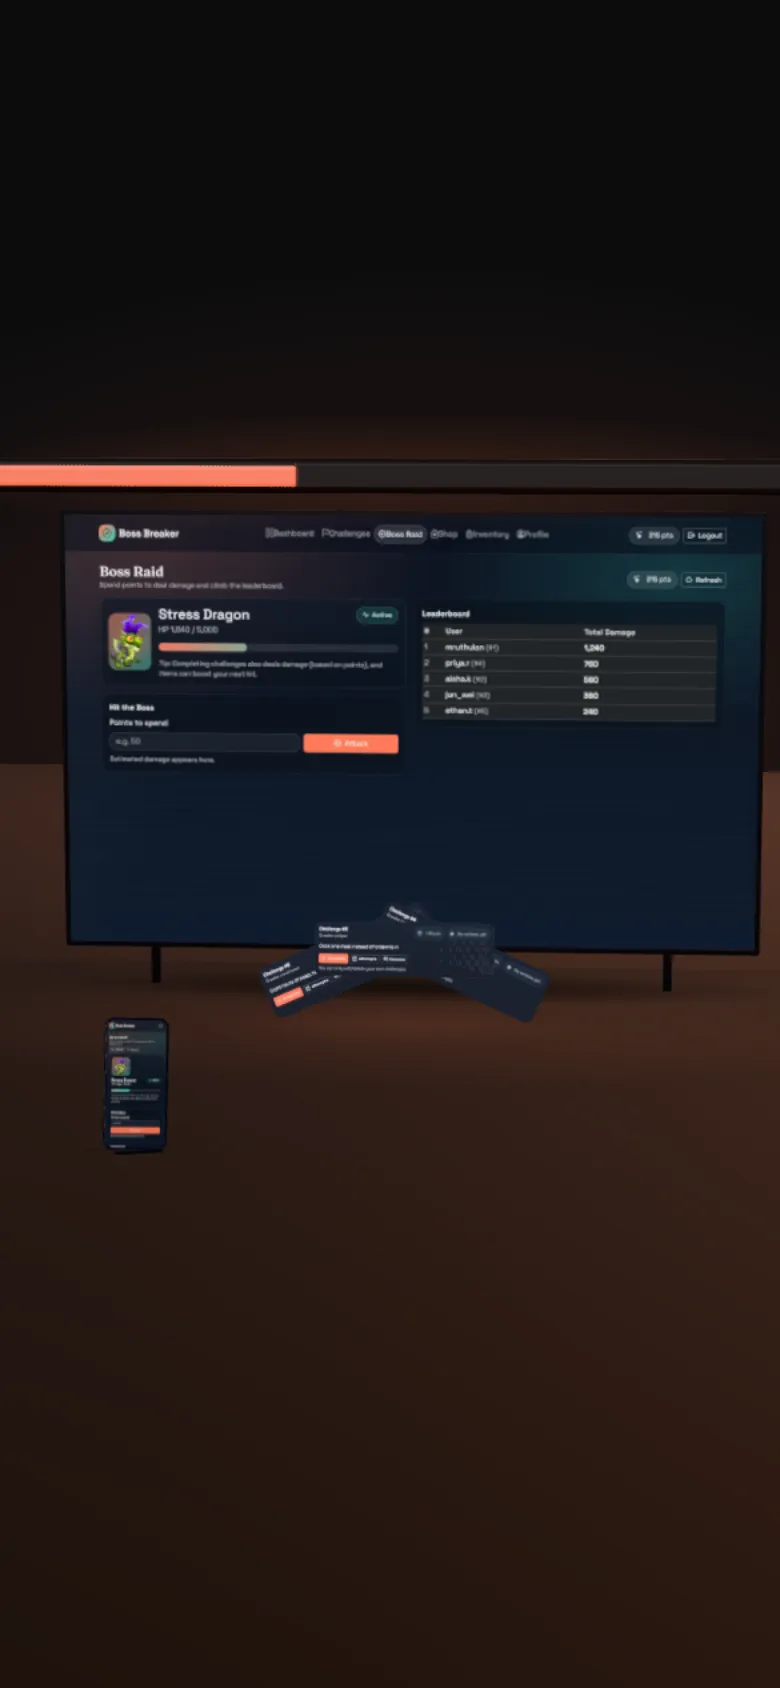
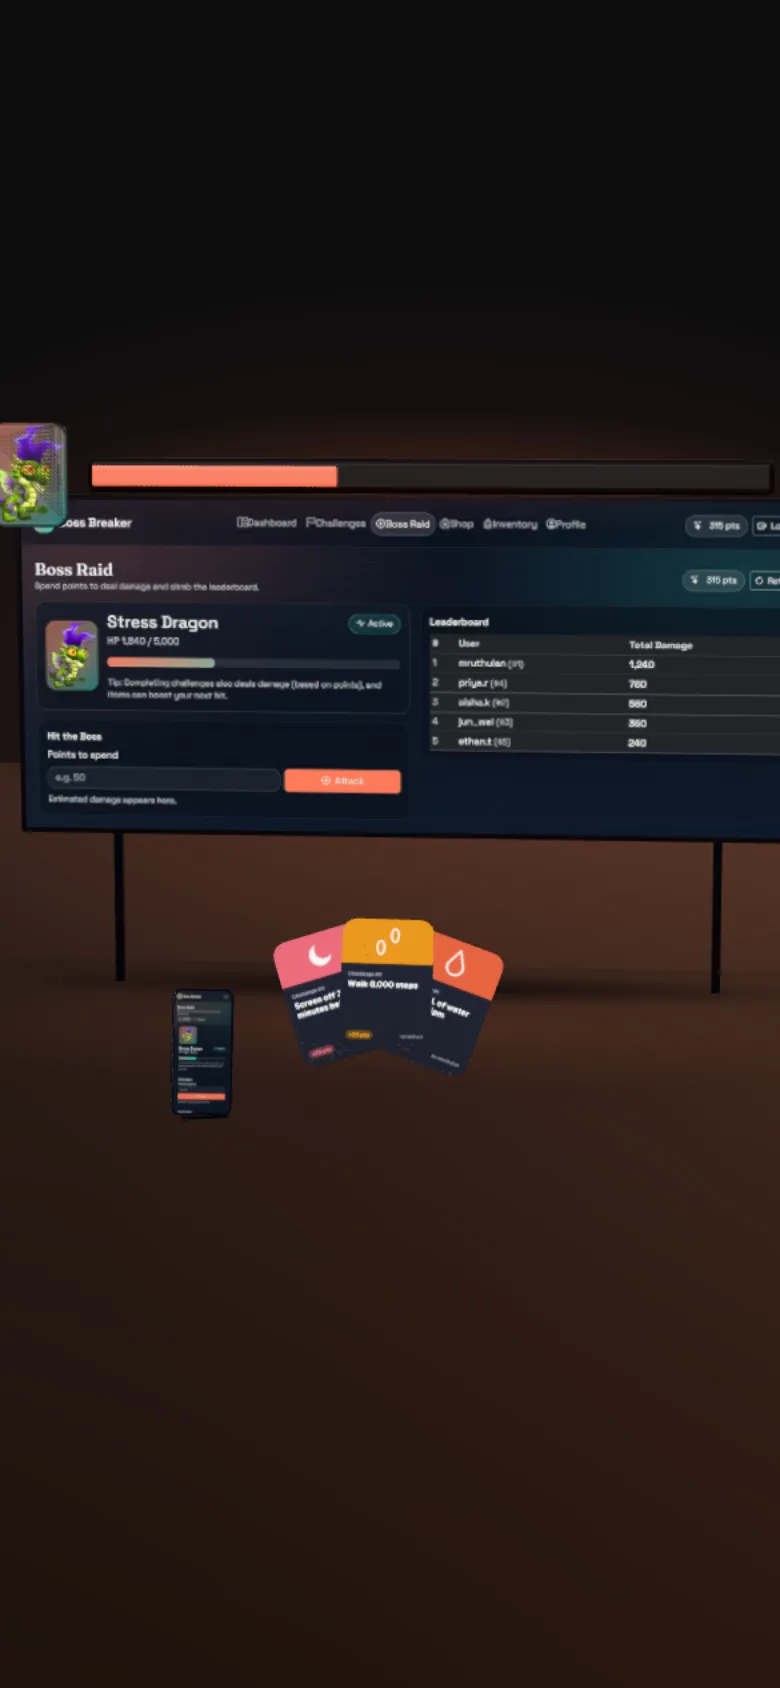
Stills for every changed chapter, a phone check, the README for v3; textures sized so they reach the GPU without stalling a frame

Changed region(s): [[0.0, 0.2464, 1.0, 0.7085]]

diff --git a/design/build_3d_assets.py b/design/build_3d_assets.py
@@ -70,7 +70,8 @@ FONT_FILES = {
 # Awards: each event's real photos, printed on the table (the keys of data/media.json)
 AWARD_PHOTOS = ['win-signalbridge-team', 'win-signalbridge-award', 'win-meant-handover', 'win-meant-stage',
                 'win-meant-team', 'win-knowcad-champion', 'win-knowcad-team']
-AWARD_WIDTH = 1400                    # the photos at their source's full width (at most this), lightly sharpened
+AWARD_WIDTH = 900                     # the photos at most this wide (1.5x their largest size on screen at 1920 px,
+                                      # and a GPU upload short enough not to stall a frame), lightly sharpened
 # Boss Breaker's six challenges, #1 to #6, as d-challenges.png shows them: the words, points, creator; each card
 # gets its own icon and an accent from the game's orange family
 CHALLENGES = [
@@ -440,12 +441,13 @@ def main():
     save(fit_crop(sb / 'm-youth-preview.png', PHONE_CROP, (768, 1662)), 'sb-phone-preview')
 
     bx = RAW / 'bx'
-    save(sharpen(fit_crop(bx / 'd-boss.png', DISPLAY_CROP, (2048, 2048))), 'bx-display')
-    save(fit(bx / 'm-boss.png', (1024, 2216)), 'bx-phone')
+    # sized to 1.5x their largest size on screen, so each goes to the GPU without stalling a frame
+    save(sharpen(fit_crop(bx / 'd-boss.png', DISPLAY_CROP, (1600, 1600))), 'bx-display')
+    save(fit(bx / 'm-boss.png', (768, 1662)), 'bx-phone')
     save(sized(crop(bx / 'd-boss.png', DRAGON_BOX, 22), 320), 'bx-dragon')   # already its source size (184 x 244)
     save(crop(bx / 'd-boss.png', LEADER_BOX, 26), 'bx-leaderboard')          # its source size, 1271 x 518
     for i, (text, pts, by, kind, accent) in enumerate(CHALLENGES, 1):
-        save(challenge_card(i, text, pts, by, kind, accent), f'bx-card-{i}')
+        save(challenge_card(i, text, pts, by, kind, accent).resize((384, 540), Image.LANCZOS), f'bx-card-{i}')   # drawn at 512
 
     media = ROOT / 'assets' / 'media'
     # the tablet and the partner's display are about 400 px wide on screen at most: 1024 px is plenty, and
@@ -457,10 +459,10 @@ def main():
     for i, text in enumerate(REPLIES, 1):
         save(reply_card(text), f'mt-reply-{i}')
     save(fit_crop(media / 'meant-shot-3.webp', WORD_GRID, (1448, 446)), 'mt-words')
-    save(sharpen(fit(media / 'press' / 'tamil-murasu-2026-09-28-p8.webp', (1400, 1117))), 'mt-paper', quality=80)
+    save(sharpen(fit(media / 'press' / 'tamil-murasu-2026-09-28-p8.webp', (1024, 817))), 'mt-paper', quality=82)   # from the full scan
 
     for state in range(4):
-        save(kc_console(state), f'kc-console-{state}')
+        save(kc_console(state).resize((1024, 640), Image.LANCZOS), f'kc-console-{state}')   # drawn at 1600, kept at 1024
     save(kc_spines(), 'kc-spines')
     for i in range(3):
         save(kc_source(i), f'kc-source-{i + 1}')

diff --git a/tests/test_assets.py b/tests/test_assets.py
@@ -74,7 +74,7 @@ def test_no_signalbridge_wall_screen_is_light():
             assert ImageStat.Stat(im.convert('L')).mean[0] < 70, p.name
 
 
-MIN_WIDTH = {'bx-display': 2048, 'bx-leaderboard': 1271, 'bx-phone': 1024}
+MIN_WIDTH = {'bx-display': 1600, 'bx-leaderboard': 1271, 'bx-phone': 768}
 
 
 @pytest.mark.parametrize('name,width', MIN_WIDTH.items())
@@ -158,7 +158,7 @@ def test_the_six_challenge_cards_are_drawn_and_each_is_different():
         'Ten minutes of stretching after class', 'Cook one meal instead of ordering in',
         'Eight hours of sleep, two nights running']
     ims = [Image.open(ROOT / 'assets' / '3d' / f'bx-card-{i}.webp').convert('RGB') for i in range(1, 7)]
-    assert all(im.size == (512, 720) for im in ims)
+    assert all(im.size == (384, 540) for im in ims)
     for i in range(6):
         for j in range(i + 1, 6):
             diff = ImageStat.Stat(ImageChops.difference(ims[i], ims[j])).mean
@@ -208,7 +208,7 @@ def test_meant_reply_cards_are_drawn_white_cards_and_the_paper_is_sharper():
             assert min(im.getpixel((8, 8))[:3]) >= 250, 'the card is white to its edge (the 3D card rounds it)'
             assert ImageStat.Stat(im.convert('L')).mean[0] > 200
     with Image.open(ROOT / 'assets' / '3d' / 'mt-paper.webp') as im:
-        assert im.width >= 1400, im.size
+        assert im.width >= 1024, im.size
 
 
 def test_the_meant_scene_and_the_builder_agree_on_the_reply_tiles():
@@ -224,7 +224,7 @@ KC = ['kc-console-0', 'kc-console-1', 'kc-console-2', 'kc-console-3', 'kc-spines
 def test_knowcad_textures_are_drawn_and_the_champion_photo_is_gone():
     from PIL import Image, ImageChops, ImageStat
     sizes = {n: Image.open(ROOT / 'assets' / '3d' / f'{n}.webp').size for n in KC}
-    assert all(sizes[f'kc-console-{i}'] == (1600, 1000) for i in range(4))
+    assert all(sizes[f'kc-console-{i}'] == (1024, 640) for i in range(4))
     assert sizes['kc-spines'] == (800, 800)
     assert all(sizes[f'kc-source-{i}'] == (600, 780) for i in range(1, 4))
     assert not (ROOT / 'assets' / '3d' / 'kc-champion.webp').exists()

diff --git a/README.md b/README.md
@@ -12,11 +12,11 @@ The homepage reads like a product page, and every project is a full-screen 3D sc
 - **Hero**: the name as a 3D split-flap board (MRUTHULAN in gold, SENTHIL NATHAN in white; three rows on phones), then LinkedIn, GitHub and Résumé. The board leans toward the mouse with a warm glint under the pointer, a flap flickers under the mouse and lands back, a tap ripples the whole name, and as you scroll on it tilts back and rises away while the camera flies past it into SignalBridge. The page paints a still of the board rendered from the same scene (`assets/3d/stills/`), and the live board takes over from it unseen.
 - **Chapters** (`#work`, `#work-<id>`) are five full-screen scenes, one after another along one camera path, each lit in its project's colour; moving from one to the next is a camera flight. Each takes about 1.6 screens of scrolling: the name arrives (in the project's own typeface, `assets/fonts/name-*.woff2`, loaded as the chapter comes near), then the one line, then the result and Case study, which stay until the chapter leaves. The page never moves by itself. A rail on the side marks the chapter you are in (not on phones).
   - **SignalBridge**, a control room at night: the youth's phone close up, then rows of SignalBridge's real screens on monitor posts; the youth's real message lifts off the phone and the camera follows it along a line of light, through the real consent card, onto the laptop's handoff brief. Tap the consent card to turn it over.
-  - **Boss Breaker**, the raid: the real Boss Raid screen large under the Stress Dragon's health bar, the phone, a hand of the real challenge cards and the leaderboard as bars. The scroll drains the boss to the 1,840 HP in the captures; a click anywhere (or Attack) throws a card for 350, until "Stress Dragon defeated". Scrolling back above the chapter resets the fight.
-  - **Better Call Bhai**, the shop: two glass barber poles in the shop's yellow, black and white (grab one and spin it), the phone stepping through the real booking to Booking Confirmed, and the day's real time slots lifting onto a wall behind it.
-  - **MEANT**, a café table: the tablet with its four suggested replies and the partner's display. The reply tiles rise off the tablet; pick one (click, tap or keyboard) and it flies across to the partner's display, which shows it. Word tiles from the board hang around the table; the Tamil Murasu page lies on it and opens the article. (The partner display could not be captured showing each reply, so each reply is written onto the real "Give me a moment" capture in the display's own typeface, colour and size.)
-  - **KnowCad**, the archive: hundreds of drawing sheets (generic drafting marks only) fill the screen; the scroll types the question, the matching sheets light up and gather into a stack, which turns over to the champion photo. The sheets part around the cursor.
-- **Awards** (`#awards`) is a photo table: each win is a stack of its real photos printed with white borders, standing up one after another as the section arrives, each placing turning up on a small gold flip-board. Point at a stack and its prints lift and fan out; flick the top print and it slides off, settles and tucks under, showing the next (Next photo does the same; a tap opens the full-screen viewer). Under each: the event, the project, my LinkedIn post and the organisers' logos (the official files in `assets/logos/`, shown in white, linking nowhere). Without the 3D the stacks are the photos with Next photo.
+  - **Boss Breaker**, the raid: the real Boss Raid screen large under the Stress Dragon's health bar, the phone, a hand of the six real challenges as cards (each with its own icon, points and creator) and the leaderboard as bars. The scroll drains the boss to the 1,840 HP in the captures; a click anywhere (or Attack) plays the front card at the boss for 350 and the next comes to the front, until "Stress Dragon defeated". Scrolling back above the chapter resets the fight.
+  - **Better Call Bhai**, the shop: two glass barber poles in the shop's yellow, black and white (grab one and spin it), the phone stepping through the real booking to Booking Confirmed, and the day's real time slots lifting onto a wall behind it as rounded 3D pills with crisp times (the taken ones dimmed and struck through, 15:00 in yellow); a pill lifts under the mouse.
+  - **MEANT**, a café table: the tablet with its four suggested replies and the partner's display. The four replies rise off the tablet as clean cards; pick one (click, tap or keyboard) and it flies across to the partner's display, which shows it. Word tiles from the board hang around the table; the Tamil Murasu page lies on it as a folded newspaper; press it and the camera glides into it before the article opens. (The partner display could not be captured showing each reply, so each reply is written onto the real "Give me a moment" capture in the display's own typeface, colour and size.)
+  - **KnowCad**, the support rep's desk: the camera flies down an aisle of manuals to a rep's screen; a customer's licence ticket lands, the rep's question types out, three manuals light up and a page slides out of each to the desk with its passage highlighted, and KnowCad's suggested answer appears with its three sources. The screen and pages are drawn in KnowCad's style as an example (the product is private). Loose pages part around the cursor; tap a source page to bring it forward, or a manual to pull it out.
+- **Awards** (`#awards`) is a gallery wall: each win is a framed shadow box of its real photos (dark-gold moulding, off-white mat) under its own spotlight, the spotlights coming up one after another as the section arrives and each placing turning up on a small gold flip-board below like a plaque. Point at a frame and it tilts toward you; Next photo (or a drag past a third of the photo) lifts the front photo out past the frame and slips it in behind the others; a short drag springs back; a tap opens the full-screen viewer. Under each: the event, the project, my LinkedIn post and the organisers' logos (the official files in `assets/logos/`, shown in white, linking nowhere). Without the 3D the stacks are the photos with Next photo.
 - **Press** is on MEANT's case page (`meant.html#press`): the Tamil Murasu page of 28 September 2026 (page 8), which featured MEANT, on a newsprint-coloured panel with one line, Read in Tamil, and the page itself, which opens in the full-screen viewer (buttons, wheel, pinch, double-click, drag, arrow keys, Reset, Original, Close; Escape closes and focus returns). MEANT's "Featured in Tamil Murasu" button jumps there.
 - **About**: the portrait and three facts: Study, Leadership, Stack.
 - **Ending** (`#contact`): a 3D flap board, OPEN TO A SWE INTERNSHIP / 2027/28 (it flickers under the mouse and ripples on a tap), then "Reach out" with Gmail, LinkedIn and GitHub, and the address with a Copy button.
